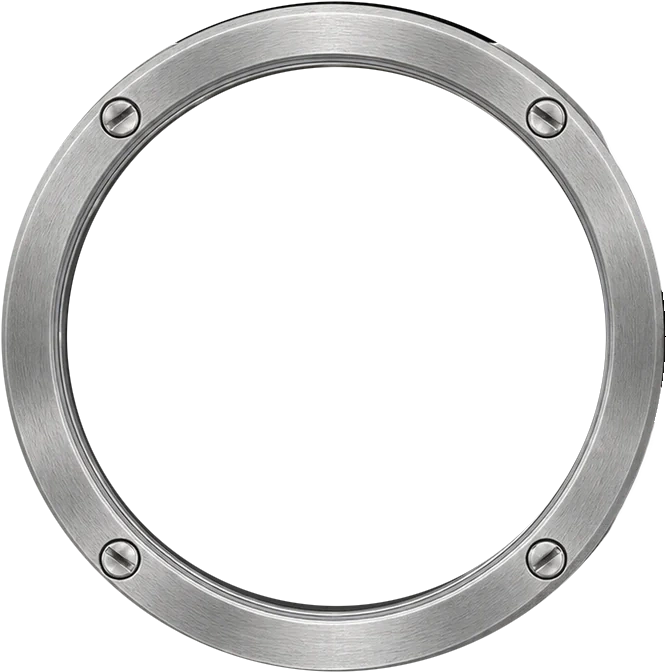
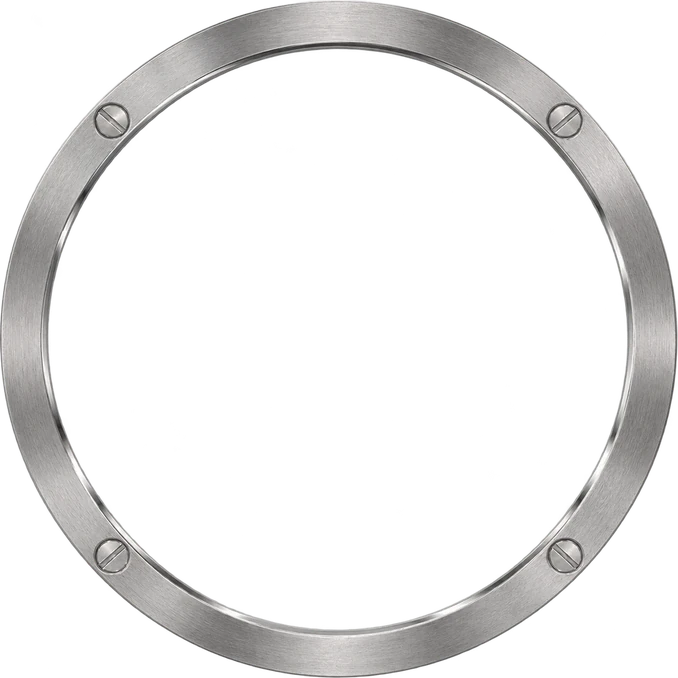
Exploded watch: use the new AI-generated case/movement, dial, bezel, crystal and crown; fit script and cache-busting
Claude-Session: https://claude.ai/code/session_014xy4ouSQSXjCyNwnwwRt4C

Changed region(s): [[0.0, 0.0, 1.0, 1.0], [0.0625, 0.2188, 0.0938, 0.2812]]

diff --git a/components/ExplodedWatch.tsx b/components/ExplodedWatch.tsx
@@ -43,6 +43,7 @@ const VIEW = { rx: 54, rz: -20, s: 0.74, ty: 0.32 };
 const [CW, CH] = partsJson.canvas as [number, number];
 const [PX, PY] = partsJson.pivot as [number, number];
 const BOX = partsJson.boxes as Record<Key, [number, number, number, number]>;
+const VERSION = (partsJson as { version?: string }).version ?? "1"; // changes when the part images change, so caches refresh
 const CASE_D = BOX.bezel[2]; // case diameter in source pixels
 const PERSPECTIVE = 1600;
 
@@ -170,7 +171,7 @@ export default function ExplodedWatch() {
             const [, , bw, bh] = BOX[p.key];
             return (
               <div key={p.key} className={`xw__part xw__part--${p.key}`} ref={(el) => { parts.current[p.key] = el; }}>
-                <Image src={`/assets/explode/${p.key}.webp`} alt="" width={bw} height={bh} sizes={p.key === "body" ? "340px" : "260px"} />
+                <Image src={`/assets/explode/${p.key}.webp?v=${VERSION}`} alt="" width={bw} height={bh} sizes={p.key === "body" ? "340px" : "260px"} />
               </div>
             );
           })}

diff --git a/next.config.ts b/next.config.ts
@@ -9,6 +9,8 @@ const nextConfig: NextConfig = {
   },
   images: {
     formats: ["image/avif", "image/webp"],
+    // allow ?v=… cache-busting on the exploded-watch parts
+    localPatterns: [{ pathname: "/assets/explode/**" }, { pathname: "/**", search: "" }],
   },
 };
 

diff --git a/scripts/place-parts.py b/scripts/place-parts.py
@@ -1,0 +1,86 @@
+"""
+Fit AI-generated watch parts (assets-src/explode/*.webp) onto the geometry of feature-watch.webp and write
+them to public/assets/explode/, updating parts.json. Run from the repo root:  python3 scripts/place-parts.py
+Any part missing from assets-src/explode keeps its current image (e.g. hands, cut from the photo).
+"""
+import json, os
+import numpy as np
+from PIL import Image
+
+SRC, OUT = "assets-src/explode", "public/assets/explode"
+meta = json.load(open(f"{OUT}/parts.json"))
+W, H = meta["canvas"]
+PX, PY = meta["pivot"]          # hand pivot: every round part is centred here
+R_CASE, R_DIAL, R_GLASS = 339.0, 292.0, 295.0  # dial fills the new bezel opening
+
+def rgba(name):
+    return Image.open(f"{SRC}/{name}.webp").convert("RGBA")
+
+def alpha_bbox(im, th=20):
+    a = np.asarray(im)[..., 3]
+    ys, xs = np.where(a > th)
+    return xs.min(), ys.min(), xs.max() + 1, ys.max() + 1
+
+def save(im, name, x, y):
+    im.save(f"{OUT}/{name}.webp", quality=90, method=6)
+    meta["boxes"][name] = [int(round(x)), int(round(y)), im.width, im.height]
+
+def round_part(name, radius, alpha_scale=None):
+    im = rgba(name).crop(alpha_bbox(rgba(name)))
+    d = int(round(radius * 2))
+    im = im.resize((d, d), Image.LANCZOS)
+    if alpha_scale:
+        im = alpha_scale(im)
+    save(im, name, PX - d / 2, PY - d / 2)
+
+def fit_case(im):
+    """Least-squares circle through the left/right edges of the case."""
+    m = np.asarray(im)[..., 3] > 128
+    pts = []
+    for y in range(420, 960, 4):
+        xs = np.where(m[y])[0]
+        if xs.size:
+            pts.append((xs.min(), y))
+            if not 600 < y < 780:      # skip the crown side around 3 o'clock
+                pts.append((xs.max(), y))
+    P = np.array(pts, float)
+    A = np.c_[2 * P[:, 0], 2 * P[:, 1], np.ones(len(P))]
+    cx, cy, c = np.linalg.lstsq(A, (P ** 2).sum(1), rcond=None)[0]
+    return cx, cy, np.sqrt(c + cx ** 2 + cy ** 2)
+
+if os.path.exists(f"{SRC}/body.webp"):
+    im = rgba("body")
+    cx, cy, r = fit_case(im)
+    s = R_CASE / r
+    im = im.resize((round(im.width * s), round(im.height * s)), Image.LANCZOS)
+    canvas = Image.new("RGBA", (W, H))
+    canvas.alpha_composite(im, (round(PX - cx * s), round(PY - cy * s)))
+    save(canvas, "body", 0, 0)
+    print(f"body: case centre ({cx:.1f},{cy:.1f}) r={r:.1f} -> scale {s:.3f}")
+
+if os.path.exists(f"{SRC}/dial.webp"):
+    round_part("dial", R_DIAL)
+
+if os.path.exists(f"{SRC}/bezel.webp"):
+    round_part("bezel", R_CASE)
+
+def thin_glass(im):
+    a = np.asarray(im).copy()
+    # keep the bright rim, make the flat white body of the glass much more see-through
+    a[..., 3] = (a[..., 3].astype(np.float32) * 0.35).astype(np.uint8)
+    return Image.fromarray(a, "RGBA")
+
+if os.path.exists(f"{SRC}/crystal.webp"):
+    round_part("crystal", R_GLASS, thin_glass)
+
+if os.path.exists(f"{SRC}/crown.webp"):
+    im = rgba("crown")
+    im = im.crop(alpha_bbox(im))
+    h = 170
+    im = im.resize((round(im.width * h / im.height), h), Image.LANCZOS)
+    save(im, "crown", PX + R_CASE - 12, PY - h / 2)   # stem tucked just inside the case edge
+
+import hashlib
+meta["version"] = hashlib.md5(b"".join(open(f"{OUT}/{k}.webp", "rb").read() for k in sorted(meta["boxes"]))).hexdigest()[:8]
+json.dump(meta, open(f"{OUT}/parts.json", "w"), indent=2)
+print(json.dumps(meta["boxes"]))

diff --git a/scripts/split-watch.py b/scripts/split-watch.py
@@ -144,5 +144,7 @@ boxes = {
     "crown": save(crown, (650, 600, W, 770), "crown"),
     "crystal": save(crys, (CX - R_GLASS, CY - R_GLASS, CX + R_GLASS, CY + R_GLASS), "crystal"),
 }
-json.dump({"canvas": [W, H], "pivot": [CX, CY], "boxes": boxes}, open(f"{OUT}/parts.json", "w"), indent=2)
+import hashlib
+version = hashlib.md5(b"".join(open(f"{OUT}/{k}.webp", "rb").read() for k in sorted(boxes))).hexdigest()[:8]
+json.dump({"canvas": [W, H], "pivot": [CX, CY], "boxes": boxes, "version": version}, open(f"{OUT}/parts.json", "w"), indent=2)
 print(json.dumps(boxes))

diff --git a/docs/exploded-watch-prompts.md b/docs/exploded-watch-prompts.md
@@ -53,5 +53,8 @@ Tips:
 
 ## Putting them on the site
 
+Current parts (case with movement, dial, bezel, crystal, crown) are AI-generated originals kept in `assets-src/explode/`. To refit them after changing any, run `python3 scripts/place-parts.py` — it scales and centres each part on the watch and updates `public/assets/explode/`. The hands are still cut from the photo.
+
+
 Put the files in `public/assets/explode/` with the exact names above (replacing the current ones), or send them to me and I'll drop them in, crop them and check the alignment.
 To rebuild the cut-out versions at any time: `python3 scripts/split-watch.py` (needs `pip install numpy pillow opencv-python-headless`).
